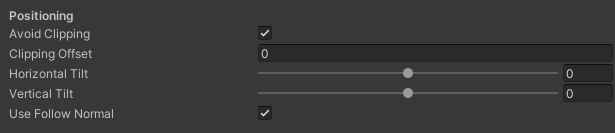
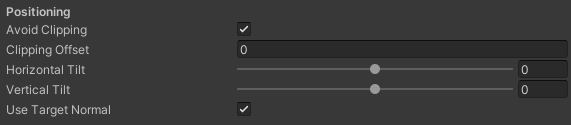
:pencil: Update README.md

diff --git a/README.md b/README.md
@@ -13,7 +13,7 @@ Third person camera behaviour for Unity. Concept was inspired by Unity's [Cinema
       - [Avoid Clipping](#avoid-clipping)
       - [Clipping offset](#clipping-offset)
       - [Camera Tilt](#camera-tilt)
-      - [Use Follow Normal](#use-follow-normal)
+      - [Use Target Normal](#use-target-normal)
     - [Controls](#controls)
   - [Contributing](#contributing)
 
@@ -71,7 +71,7 @@ The distance between the camera and any clipping object if "avoid clipping" is e
 
 The horizontal and vertical offset angles for the camera view. Both defaults to 0.
 
-#### Use Follow Normal
+#### Use Target Normal
 
 If enabled, the camera will align its normal with the follow target's normal, otherwise it will use  [Vector3.up](https://docs.unity3d.com/ScriptReference/Vector3-up.html), defined by (0, 1, 0), as shown bellow (true on the left, false on the right). Defaults to true.
   
